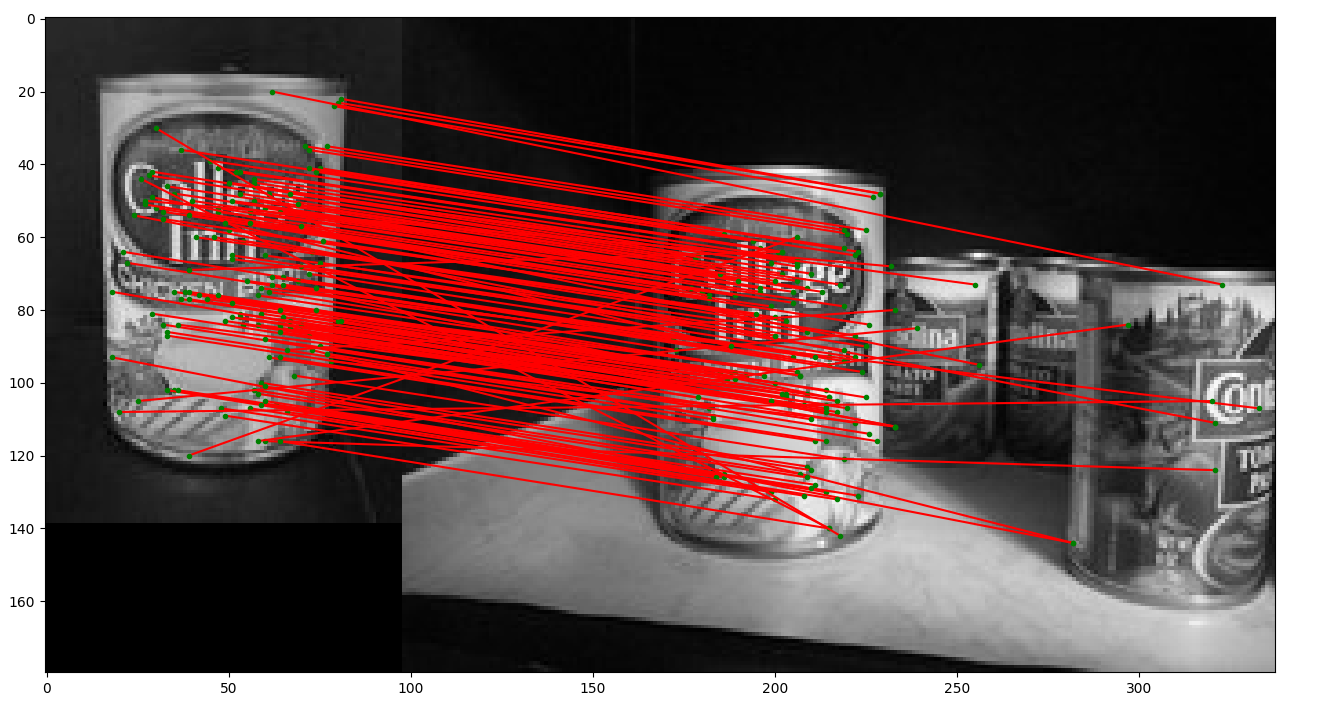
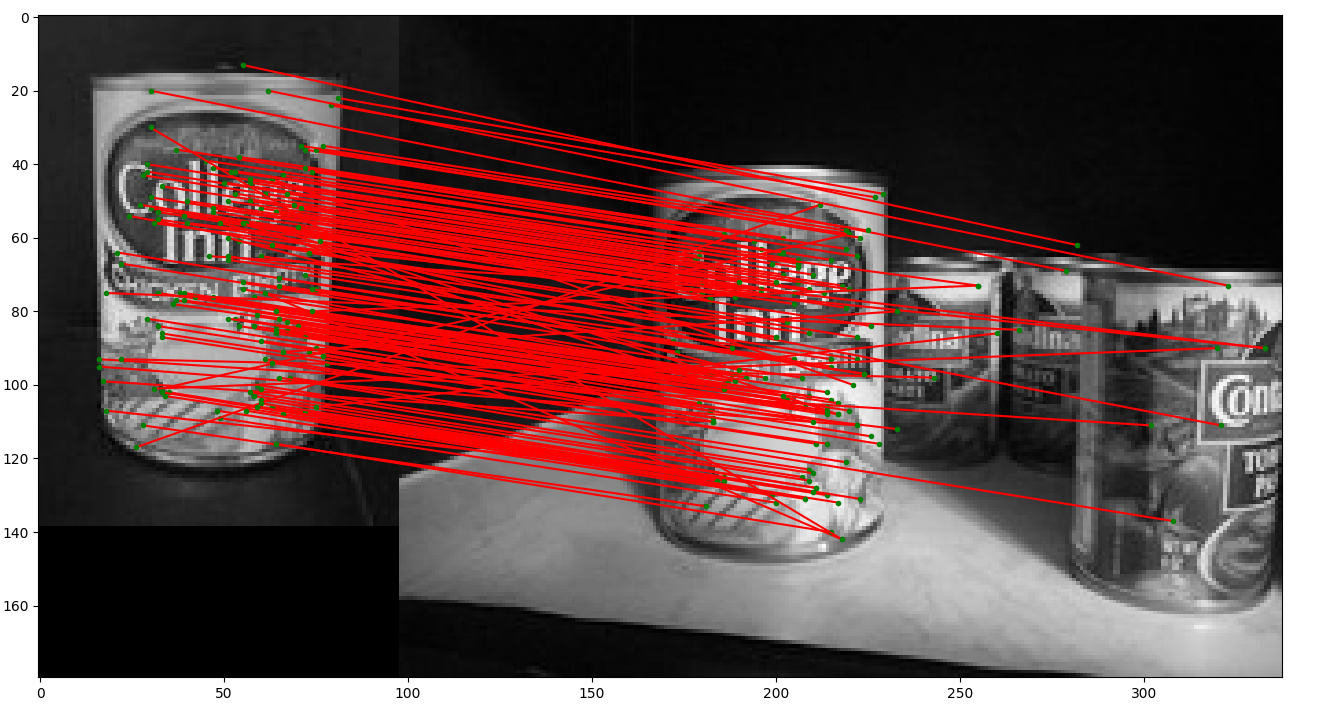
RANSAC implemented for outliers

diff --git a/Assignments/HW2/code/planarH.py b/Assignments/HW2/code/planarH.py
@@ -1,7 +1,7 @@
 import numpy as np
 import cv2
 
-from BRIEF import briefLite, briefMatch
+from BRIEF import briefLite, briefMatch, plotMatches
 from keypointDetect import displayPoints
 
 def computeH(p1, p2):
@@ -33,42 +33,45 @@ def ransacH(matches, locs1, locs2, num_iter=5000, tol=2):
     Returns the best homography by computing the best set of matches using RANSAC
 
     [input]
-    * locs1 and locs2 - Matrices specifying point locations in each of the images
     * matches - Matrix specifying matches between these two sets of point locations
-    * nIter - Number of iterations to run RANSAC
+    * locs1 and locs2 - Matrices specifying point locations in each of the images
+    * num_iter - Number of iterations to run RANSAC
     * tol - Tolerance value for considering a point to be an inlier
 
     [output]
     * bestH - Homography matrix with the most inliers found during RANSAC
     ''' 
 
+    n_matches = matches.shape[0]
+
     p1, p2 = [], []
-    for i in range(matches.shape[0]):
+    for i in range(n_matches):
         p1.append(locs1[matches[i, 0], 0:2])
         p2.append(locs2[matches[i, 1], 0:2])
 
     p1 = np.asarray(p1).swapaxes(0, 1)
     p2 = np.asarray(p2).swapaxes(0, 1)
 
-    ng = 4
-    np.random.seed(0)
-    groups = np.random.permutation(np.arange(0, p1.shape[1]))
-    if p1.shape[1]%ng: groups = np.concatenate(groups, np.random.randint(p1.shape[1], size=p1.shape[1]%ng))
+    # RANSAC
+    bestH, most_inliers = None, 0
+    best_args = None
+    for i in range(num_iter):
+        random_indices = np.random.randint(n_matches, size=4)
+        H = computeH(p1[:, random_indices], p2[:, random_indices])
 
-    for i in range(groups.shape[0]//ng):
-        H = computeH(p1[:, i:i+ng], p2[:, i:i+ng])
+        point1 = np.vstack((p1, [1]*n_matches))
+        point2 = np.vstack((p2, [1]*n_matches))
+        point2_proj = np.matmul(H, point1)
+        point2_proj = point2_proj/point2_proj[-1, :]
+        
+        # distances = np.sqrt(np.sum((point2_proj.T - point2.T)**2, axis=1))
+        distances = np.linalg.norm(point2_proj.T - point2.T, axis=1)
+        inliers = len(distances[distances<tol])
+        
+        # TODO: Remove args
+        args = [ k for k in range(n_matches) if distances[k] < tol ]
+        if inliers > most_inliers: bestH, most_inliers, best_args = H, inliers, args
 
-    a = np.vstack((p1[:, :4], [1]*4))
-    b = np.vstack((p2[:, :4], [1]*4))
-    
-    print(a, a.shape)
-    print(b, b.shape)
-    print(H)
-    
-    dst = np.matmul(H, a, dst)
-    print(dst/dst[-1, :])
-
-    bestH = None
     return bestH
 
 if __name__ == '__main__':
@@ -80,7 +83,8 @@ if __name__ == '__main__':
     # matches = briefMatch(desc1, desc2)
     
     locs1, locs2, desc1, desc2, matches = np.load('BRIEF-ch.npy')
-    ret = ransacH(matches, locs1, locs2, num_iter=5000, tol=2)
+    H = ransacH(matches, locs1, locs2, num_iter=5000, tol=2)
     
-    # print(len(matches))
+    # matches = matches[args]
+    # plotMatches(im1, im2, matches, locs1, locs2)
     # displayPoints(im2, ret)
